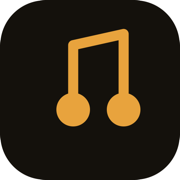
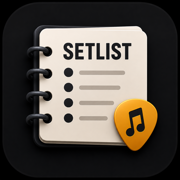
feat: nuevo ícono de la app (Setlist.png de Apps Nate)
Reemplaza todos los íconos (favicon, apple-touch-icon, PWA 192/512) con
la imagen "Repertorio" de la carpeta Apps Nate. El favicon anterior era
SVG; ahora es PNG generado directamente de la nueva imagen (index.html y
vite.config.ts actualizados para referenciarlo).

diff --git a/index.html b/index.html
@@ -2,7 +2,7 @@
 <html lang="es">
   <head>
     <meta charset="UTF-8" />
-    <link rel="icon" type="image/svg+xml" href="/favicon.svg" />
+    <link rel="icon" type="image/png" href="/favicon.png" />
     <link rel="apple-touch-icon" href="/apple-touch-icon.png" />
     <meta name="viewport" content="width=device-width, initial-scale=1.0, maximum-scale=1.0, user-scalable=no, viewport-fit=cover" />
     <meta name="theme-color" content="#E8A33D" />

diff --git a/vite.config.ts b/vite.config.ts
@@ -12,7 +12,7 @@ export default defineConfig({
       srcDir: 'src',
       filename: 'sw.ts',
       registerType: 'autoUpdate',
-      includeAssets: ['favicon.svg', 'apple-touch-icon.png'],
+      includeAssets: ['favicon.png', 'apple-touch-icon.png'],
       manifest: {
         name: 'Repertorio',
         short_name: 'Repertorio',
